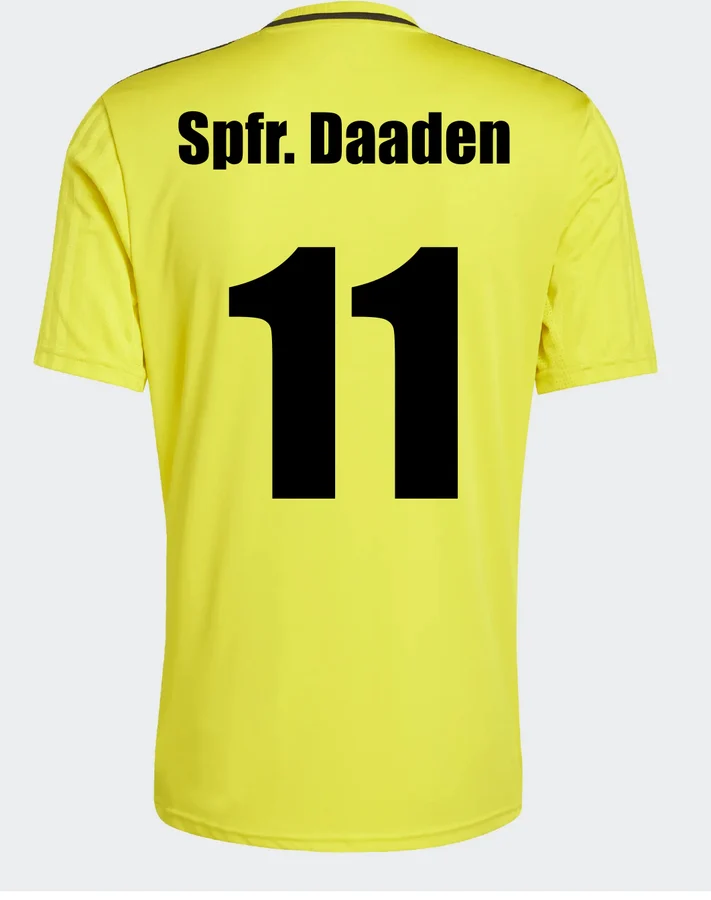
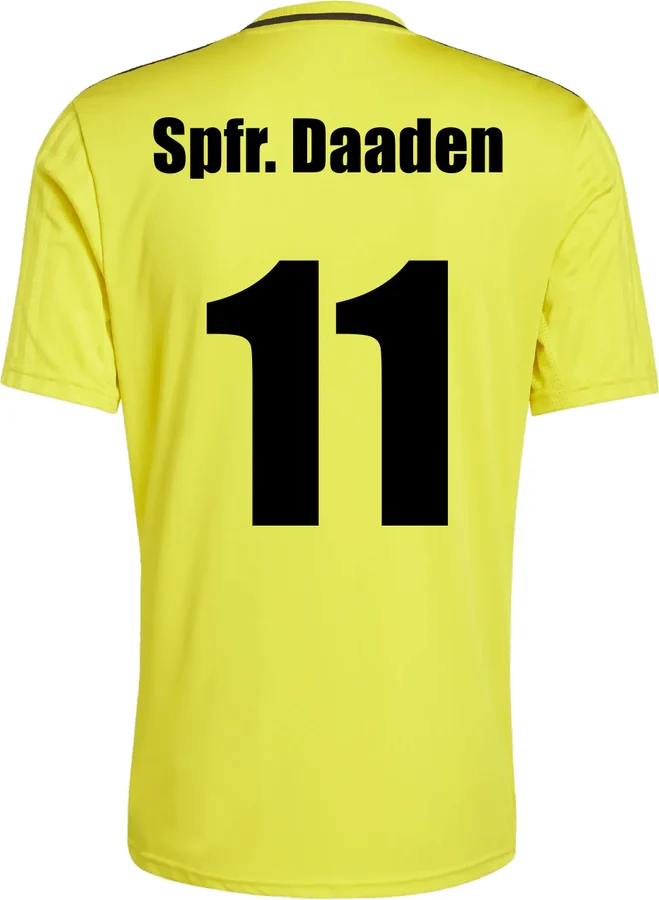
feat(PROJ-13): Marken JAKO, erima und adidas statt Partner-Hinweis, Daaden-Trikot in der Galerie, FAQ mit Mindestmenge und Lieferzeit
Claude-Session: https://claude.ai/code/session_01J1D6pFsGkfumoVFQd1CdUS

diff --git a/src/app/(site)/teamwear/page.tsx b/src/app/(site)/teamwear/page.tsx
@@ -15,7 +15,7 @@ import { AUDIENCES, CLUBS, FAQ, KITS, METHODS, STEPS, TEAMWEAR } from "@/content
 export const metadata: Metadata = {
   title: "Teamwear – Textildruck für Vereine & Firmen",
   description:
-    "AUSDAUER TEAMWEAR: Trikots, Trainingskleidung und Firmenkleidung von JAKO, bedruckt in Betzdorf mit Flex und DTF. Offizieller JAKO Teamwear Partner.",
+    "AUSDAUER TEAMWEAR: Trikots, Trainingskleidung und Firmenkleidung von JAKO, erima und adidas – bedruckt in Betzdorf mit Flex und DTF, ohne Mindestmenge.",
 };
 
 export default function TeamwearPage() {
@@ -28,14 +28,14 @@ export default function TeamwearPage() {
             Euer Trikot. <span className="italic text-brand">Unser Druck.</span>
           </>
         }
-        intro="Wir statten Vereine und Firmen mit JAKO aus und bedrucken alles selbst in unserer Werkstatt in Betzdorf – Wappen, Sponsoren, Namen und Nummern."
+        intro="Wir statten Vereine und Firmen mit JAKO, erima und adidas aus und bedrucken alles selbst in unserer Werkstatt in Betzdorf – Wappen, Sponsoren, Namen und Nummern."
       >
         <div className="flex flex-wrap items-center gap-4">
           <Button asChild variant="brand" size="lg">
             <a href={COMPANY.phoneHref}>Anfrage: {COMPANY.phone}</a>
           </Button>
           <Badge variant="outline" className="border-paper/30 font-mono text-xs uppercase tracking-[0.15em] text-paper">
-            {TEAMWEAR.partner}
+            Ohne Mindestmenge · ca. 4 Wochen
           </Badge>
         </div>
       </PageHero>
@@ -65,7 +65,7 @@ export default function TeamwearPage() {
         title="Echte Druckfreigaben."
         intro="So sieht eine Druckfreigabe bei uns aus. Tipp auf ein Trikot, um es umzudrehen."
       >
-        <div className="grid gap-10 md:grid-cols-2">
+        <div className="grid gap-10 md:grid-cols-2 lg:grid-cols-3">
           {KITS.map((k) => (
             <KitViewer key={k.club} kit={k} />
           ))}
@@ -107,22 +107,23 @@ export default function TeamwearPage() {
         </ul>
       </SiteSection>
 
-      <SiteSection km={5} kicker="Ausrüster" title="Offizieller JAKO Teamwear Partner." tone="ink">
-        <div className="grid gap-8 lg:grid-cols-[1fr_1.2fr] lg:items-center">
-          <div className="flex min-h-40 items-center justify-center rounded-sm bg-white p-10" data-slot="jako-logo">
-            {/* JAKO logo: original file only, after approval by JAKO marketing (CI 2026). Until then the name as text. */}
-            <p className="font-display text-4xl font-black uppercase text-ink">JAKO</p>
-          </div>
-          <div>
-            <p className="max-w-xl text-lg text-paper/85">
-              Als offizieller Partner bekommt ihr bei uns das komplette JAKO-Teamsortiment – vom Trikot bis zur Regenjacke, für Firmen auch die
-              JAKO Corporate Teamwear. Muster und Größen könnt ihr im Store in Betzdorf anprobieren.
-            </p>
-          </div>
+      <SiteSection km={5} kicker="Marken" title="Die führenden Teamwear-Marken." tone="ink">
+        <div className="grid gap-8 lg:grid-cols-[1.2fr_1fr] lg:items-center">
+          <ul className="grid grid-cols-3 gap-3">
+            {TEAMWEAR.brands.map((b) => (
+              <li key={b} className="flex min-h-28 items-center justify-center rounded-sm border border-paper/20 px-4">
+                <span className="font-display text-3xl font-black uppercase italic sm:text-4xl">{b}</span>
+              </li>
+            ))}
+          </ul>
+          <p className="max-w-xl text-lg text-paper/85">
+            JAKO, erima und adidas liefern wir dir direkt – vom Trikotsatz bis zur Regenjacke. Muster und Größen kannst du im Store in Betzdorf
+            anprobieren. Bedruckt wird alles bei uns.
+          </p>
         </div>
       </SiteSection>
 
-      <SiteSection km={6} kicker="Ablauf" title="In fünf Schritten zum Trikot." tone="white">
+      <SiteSection km={6} kicker="Ablauf" title="In fünf Schritten zum Trikot." intro="Von der Anfrage bis zur Übergabe dauert es etwa vier Wochen, je nach Auftragslage." tone="white">
         <ol className="grid gap-6 md:grid-cols-5">
           {STEPS.map((s, i) => (
             <li key={s.title} className="border-t-4 border-brand pt-4">

diff --git a/src/content/teamwear.ts b/src/content/teamwear.ts
@@ -3,7 +3,8 @@
 export const TEAMWEAR = {
   name: "AUSDAUER TEAMWEAR",
   claim: "Bedruckt in Betzdorf",
-  partner: "Offizieller JAKO Teamwear Partner",
+  /** Leading teamwear brands we supply – named as text only, no brand logos. */
+  brands: ["JAKO", "erima", "adidas"],
   /** Order shop for clubs is still in beta – not linked yet. */
   clubShopLive: false,
 } as const;
@@ -17,13 +18,13 @@ export interface Audience {
 export const AUDIENCES: Audience[] = [
   {
     title: "Für Vereine",
-    text: "Vom Trikotsatz der Ersten bis zur Trainingsjacke der Bambini: Wir statten euren Verein mit JAKO aus und bedrucken alles bei uns in Betzdorf.",
+    text: "Vom Trikotsatz der Ersten bis zur Trainingsjacke der Bambini: Wir statten euren Verein mit JAKO, erima oder adidas aus und bedrucken alles bei uns in Betzdorf.",
     points: ["Trikots, Hosen, Stutzen, Trainingsanzüge", "Wappen, Sponsor, Namen und Nummern", "Nachbestellungen für neue Spieler:innen"],
   },
   {
     title: "Für Firmen",
     text: "Einheitliche Kleidung fürs Team, den Firmenlauf oder den Messestand: Shirts, Polos, Softshells und Hoodies mit eurem Logo.",
-    points: ["JAKO Corporate Teamwear", "Logo auf Brust, Rücken oder Ärmel", "Kleine und große Stückzahlen"],
+    points: ["Shirts, Polos, Softshells, Hoodies", "Logo auf Brust, Rücken oder Ärmel", "Ab einem Stück – ohne Mindestmenge"],
   },
 ];
 
@@ -54,7 +55,7 @@ export interface Club {
   crest: string;
 }
 
-/** References – crests used with the clubs' permission. */
+/** References – crests and kits shown with the clubs' permission (2026-10-16). */
 export const CLUBS: Club[] = [
   { name: "SG 06 Betzdorf", crest: "/images/vereine/sg-06-betzdorf.png" },
   { name: "TuS Weitefeld", crest: "/images/vereine/tus-weitefeld.png" },
@@ -88,11 +89,18 @@ export const KITS: Kit[] = [
     back: "/images/teamwear/tus-weitefeld-hinten.webp",
     prints: ["Wappen ca. 80 mm", "Sponsor ca. 250 mm", "Nummer ca. 240 mm"],
   },
+  {
+    club: "Sportfreunde Daaden",
+    title: "Spielertrikot",
+    front: "/images/teamwear/sportfreunde-daaden-vorne.webp",
+    back: "/images/teamwear/sportfreunde-daaden-hinten.webp",
+    prints: ["Wappen ca. 85 mm", "Sponsor ca. 250 mm", "Schriftzug ca. 275 mm", "Nummer ca. 240 mm"],
+  },
 ];
 
 export const STEPS = [
   { title: "Anfrage", text: "Ruf an, schreib uns oder komm in Betzdorf vorbei. Sag uns, was ihr braucht und wie viele." },
-  { title: "Muster & Größen", text: "Wir zeigen dir die passenden JAKO-Modelle. Größen könnt ihr bei uns anprobieren." },
+  { title: "Muster & Größen", text: "Wir zeigen dir die passenden Modelle von JAKO, erima und adidas. Größen könnt ihr bei uns anprobieren." },
   { title: "Druckfreigabe", text: "Du bekommst eine Ansicht von vorn und hinten mit allen Maßen – so wie auf dieser Seite." },
   { title: "Druck", text: "Nach deiner Freigabe drucken wir in unserer Werkstatt in Betzdorf." },
   { title: "Übergabe", text: "Abholung im Store oder Lieferung an den Verein." },
@@ -101,11 +109,11 @@ export const STEPS = [
 export const FAQ = [
   {
     q: "Gibt es eine Mindestmenge?",
-    a: "Sprich uns an – wir drucken für ganze Vereine genauso wie für ein einzelnes Team. Den Preis bekommst du mit dem Angebot.",
+    a: "Nein. Wir drucken für ganze Vereine genauso wie ein einzelnes Trikot für den Neuzugang.",
   },
   {
     q: "Wie lange dauert es?",
-    a: "Das hängt von der Verfügbarkeit bei JAKO und vom Umfang ab. Den Termin nennen wir dir mit dem Angebot.",
+    a: "Rechne mit etwa vier Wochen, je nach Auftragslage. Den genauen Termin nennen wir dir mit dem Angebot.",
   },
   {
     q: "Welche Druckdaten braucht ihr?",

diff --git a/src/app/brand/teamwear/page.tsx b/src/app/brand/teamwear/page.tsx
@@ -62,7 +62,7 @@ export default function TeamwearBrandPage() {
           <p className="mt-12 font-mono text-xs uppercase tracking-[0.25em] text-brand">Logo-Entwurf · Textildruck für Vereine & Firmen</p>
           <img src={teamwearLogo("", "negativ")} alt="AUSDAUER TEAMWEAR – Bedruckt in Betzdorf" className="mt-8 h-auto w-full max-w-2xl" />
           <p className="mt-10 max-w-2xl text-lg text-muted-foreground sm:text-xl">
-            Flex und DTF für Vereine und Firmen, ausgestattet über JAKO. Das lange AUSDAUER-Logo ist auf dem Ärmel zu flach. Deshalb
+            Flex und DTF für Vereine und Firmen, auf Teamwear von JAKO, erima und adidas. Das lange AUSDAUER-Logo ist auf dem Ärmel zu flach. Deshalb
             sitzt dort ab jetzt die rote ∞-Plakette, kompakt, auch mit 25 mm noch erkennbar.
           </p>
         </div>
@@ -127,7 +127,7 @@ export default function TeamwearBrandPage() {
             ))}
           </div>
           <p className="mt-8 max-w-3xl text-muted-foreground">
-            Claim „Bedruckt in Betzdorf“: Die Kleidung kommt von JAKO, veredelt wird bei uns. Genau das sagt der Claim. „Made in Betzdorf“
+            Claim „Bedruckt in Betzdorf“: Die Kleidung kommt von JAKO, erima oder adidas, veredelt wird bei uns. Genau das sagt der Claim. „Made in Betzdorf“
             würde behaupten, die Ware sei in Betzdorf hergestellt.
           </p>
         </Section>
@@ -189,13 +189,13 @@ export default function TeamwearBrandPage() {
           </div>
           <div className="mt-12 grid gap-8 lg:grid-cols-2">
             <ul className="space-y-3">
-              <Rule kind="do">Rangfolge auf dem Trikot: Vereinswappen und Sponsor vorn, JAKO laut Ausrüster-Vorgabe, AUSDAUER am linken Ärmel oder im Nacken.</Rule>
+              <Rule kind="do">Rangfolge auf dem Trikot: Vereinswappen und Sponsor vorn, Herstellerlogo wie geliefert, AUSDAUER am linken Ärmel oder im Nacken.</Rule>
               <Rule kind="do">Ärmel: Plakette 3–4 cm unter der Schulternaht, mittig auf der Ärmelachse. Nacken: 2 cm unter dem Kragen.</Rule>
               <Rule kind="do">Auf Vereinsfarben 1-farbig in Weiß oder Schwarz, je nachdem, was mehr Kontrast hat. Rot nur auf Weiß, Grau oder Schwarz.</Rule>
             </ul>
             <ul className="space-y-3">
               <Rule kind="dont">Das Original-Logo unter 60 mm Breite, auseinandergenommen oder ohne ∞ vor dem Schriftzug.</Rule>
-              <Rule kind="dont">Vereinswappen, JAKO- oder Sponsorlogos umfärben oder mit der Plakette verbinden.</Rule>
+              <Rule kind="dont">Vereinswappen, Hersteller- oder Sponsorlogos umfärben oder mit der Plakette verbinden.</Rule>
               <Rule kind="dont">Rote Plakette auf rotem Trikot. Claim oder Innendruck außen auf dem Vereinstrikot. „TEAMWEAR“ nur im Ärmel-Badge, nie als lose Zeile.</Rule>
             </ul>
           </div>

diff --git a/src/app/brand/_sections/architecture.tsx b/src/app/brand/_sections/architecture.tsx
@@ -64,7 +64,7 @@ export function Architecture() {
             {/* eslint-disable-next-line @next/next/no-img-element -- static vector logo */}
             <img src="/brand/teamwear/ausdauer-teamwear-farbig.svg" alt="AUSDAUER TEAMWEAR" className="h-12 w-auto max-w-full" />
             <p className="mt-3 text-sm text-muted-foreground">
-              Flex & DTF, Ausstattung über JAKO. <a href="/brand/teamwear" className="underline underline-offset-4">Logo & Textil-Marken →</a>
+              Flex & DTF auf JAKO, erima und adidas. <a href="/brand/teamwear" className="underline underline-offset-4">Logo & Textil-Marken →</a>
             </p>
           </Node>
           <div className="flex items-center gap-3 rounded-sm bg-ink p-5 text-paper">

diff --git a/features/PROJ-13-teamwear-web.md b/features/PROJ-13-teamwear-web.md
@@ -24,7 +24,7 @@ Aufbau:
 - Hero mit Trikot-Mockup und Ärmel-Plakette
 - Für Vereine / Für Firmen
 - Flex und DTF im Vergleich
-- JAKO als Ausrüster
+- Marken JAKO, erima und adidas (als Text)
 - Referenzwappen
 - Ablauf: Anfrage → Muster/Größenprobe → Freigabe → Druck → Übergabe
 - FAQ
@@ -40,7 +40,8 @@ Inhalte kommen aus `src/content/teamwear.ts`. Der Menüpunkt „Teamwear“ komm
 - [x] Referenzwappen sichtbar, mit Alt-Text (5 Vereine).
 - [x] Menü enthält „Teamwear“.
 - [x] Trikot-Galerie aus Druckfreigaben, Vorder-/Rückseite per Tippen drehbar (CSS 3D, `prefers-reduced-motion` beachtet).
-- [ ] JAKO-Logo (Originaldatei, Freigabe durch JAKO-Marketing).
+- [x] Marken JAKO, erima, adidas als Text, kein Partner-Hinweis, keine Herstellerlogos.
+- [x] FAQ: keine Mindestmenge, Lieferzeit ca. 4 Wochen je nach Auftragslage.
 
 ## Implementation Notes (2026-10-16, Teil Events)
 - Entfernt:
@@ -53,13 +54,13 @@ Inhalte kommen aus `src/content/teamwear.ts`. Der Menüpunkt „Teamwear“ komm
 - E2E-Test „events point to the community app“ ergänzt.
 
 ## Offene Fragen
-- [x] JAKO: offizieller JAKO Teamwear Partner, Logo darf gezeigt werden. Originaldatei bzw. Partner-Badge liefert der Kunde.
-- [ ] Mindestmengen, Lieferzeiten.
+- [x] Kein „JAKO Teamwear Partner“-Hinweis. Stattdessen werden JAKO, erima und adidas als führende Marken genannt (Kunde, 2026-10-16).
+- [x] Mindestmengen: keine. Lieferzeit: ca. 4 Wochen.
 - [ ] Statt Fotos: Mockups aus Druckfreigaben (Upload durch den Kunden) als drehbare Trikot-Ansicht. Ansatz siehe Chat 2026-10-16.
 - [x] Wolf-Wappen = TuS Weitefeld. JSG Weitefeld-Neunkhausen ist ein eigener Verein (2026-10-16).
 - [x] Wappen Sportfreunde Daaden geliefert.
-- [ ] Daaden-Trikot (adidas) in der Galerie zeigen? Konflikt mit der JAKO-Partnerschaft möglich, deshalb vorerst nicht gezeigt.
-- [ ] Okay von Vereinen und Sponsoren (adesso, Schleyer) für die Galerie.
+- [x] Daaden-Trikot (adidas) wird in der Galerie gezeigt.
+- [x] Vereine sind mit Wappen und Trikots auf der Seite einverstanden (2026-10-16).
 
 ## Implementation Notes (2026-10-16, Teil Teamwear)
 - Inhalte in `src/content/teamwear.ts`: Zielgruppen, Verfahren, Vereine, Trikots, Ablauf, FAQ. Die FAQ-Texte bitte prüfen, Mindestmengen und Lieferzeiten sind bewusst offen formuliert.
@@ -68,9 +69,5 @@ Inhalte kommen aus `src/content/teamwear.ts`. Der Menüpunkt „Teamwear“ komm
   - aus den Druckfreigaben-PDFs zugeschnitten nach `public/images/teamwear/*.webp`
   - Spielername auf der SG-06-Rückseite entfernt
 - Vereinswappen in `public/images/vereine/` (5 Stück).
-- JAKO:
-  - CI 2026 beachtet: nur Originallogo, keine Umfärbung, mind. 2 cm, Schutzraum.
-  - Werbemittel mit JAKO-Logo nur nach Freigabe durch das JAKO-Marketing.
-  - „JAKO Corporate Teamwear“-Logo nur im Firmen-Kontext.
-  - Bis dahin steht JAKO nur als Text im Logo-Feld.
+- Marken: JAKO, erima und adidas nur als Text, da keine Herstellerlogos freigegeben sind. Den JAKO-CI-Guide 2026 beachten, falls doch Logos kommen: Originaldatei, keine Umfärbung, mind. 2 cm, Freigabe durch das JAKO-Marketing.
 - Menü (`MAIN_NAV`), Sitemap und E2E-Test „teamwear page shows the club crests and turns a jersey“ ergänzt.

diff --git a/features/PROJ-12-teamwear-brand.md b/features/PROJ-12-teamwear-brand.md
@@ -4,7 +4,7 @@
 
 ## Ausgangslage
 - AUSDAUER betreibt eine kleine Textildruckerei für Firmen und Sportvereine (Flextransfer, DTF).
-- Die Ausstattung läuft über JAKO. Referenzen: SG 06 Betzdorf, TuS Weitefeld, JSG Weitefeld-Neunkhausen, Sportfreunde Daaden, VfB Niederdreisbach.
+- Geliefert werden die führenden Teamwear-Marken JAKO, erima und adidas. Referenzen: SG 06 Betzdorf, TuS Weitefeld, JSG Weitefeld-Neunkhausen, Sportfreunde Daaden, VfB Niederdreisbach.
 - Vereine bestellen über einen eigenen Bestellshop (Beta).
 - Arbeitstitel war „Ausdauer Custom Teamwear“.
 - Problem: Das lange, flache AUSDAUER-Logo (ca. 7 : 1) ist auf dem Ärmel schlecht lesbar.
@@ -12,10 +12,10 @@
 ## Entscheidungen
 - Name: **AUSDAUER TEAMWEAR** (Kunde, 2026-10-16).
 - Untermarke nach dem Bauplan von Run Academy und CUP: rote ∞-Plakette, Name, Claim.
-- Claim: **„Bedruckt in Betzdorf“** (Kunde, 2026-10-16). „Made in Betzdorf“ wurde verworfen: Die Ware kommt von JAKO, in Betzdorf wird veredelt. Eine Herkunftsangabe „Made in“ wäre irreführend.
+- Claim: **„Bedruckt in Betzdorf“** (Kunde, 2026-10-16). „Made in Betzdorf“ wurde verworfen: Die Ware kommt von JAKO, erima oder adidas, in Betzdorf wird veredelt. Eine Herkunftsangabe „Made in“ wäre irreführend.
 - Auf Vereinskleidung ist die Plakette der Absender. Vorschlag des Kunden (2026-10-16): **„TEAMWEAR“ unter der Plakette am Ärmel**, umgesetzt als Ärmel-Badge. Das ist die kompakte Form der Untermarke, nach dem Bauplan von RUN ACADEMY. „TEAMWEAR“ steht nie als lose Zeile.
 - **Das Original-Logo wird nie getrennt** (Kunde, 2026-10-16): Das ∞ bleibt vor dem Schriftzug. Die Variante „Ärmel vertikal“ (Plakette über dem Schriftzug ohne ∞) ist verworfen. Auf dem Ärmel steht die Plakette allein, das komplette Logo kommt dorthin, wo mindestens 60 mm Platz sind.
-- JAKO: offizieller **JAKO Teamwear Partner**. Das Logo darf genannt werden, die Originaldatei kommt vom Kunden.
+- Marken: JAKO, erima und adidas werden als Text genannt, ohne Partner-Hinweis und ohne Herstellerlogos (Kunde, 2026-10-16).
 
 ## Textil-Marken
 | Marke | Mindestbreite | Ideal | Einsatz |

diff --git a/public/brand/teamwear/README.md b/public/brand/teamwear/README.md
@@ -1,6 +1,6 @@
 # AUSDAUER TEAMWEAR – Logo- und Textil-Dateien
 
-Textildruck für Vereine und Firmen (Flex, DTF), Ausstattung über JAKO. Untermarke nach dem Bauplan von Run Academy und AUSDAUER CUP: ∞-Plakette, Name und Claim. Erzeugt mit `npm run brand:subbrands`, PDFs mit `npm run brand:teamwear-pdf`. Alle Schriften sind in Pfade umgewandelt.
+Textildruck für Vereine und Firmen (Flex, DTF) auf Teamwear von JAKO, erima und adidas. Untermarke nach dem Bauplan von Run Academy und AUSDAUER CUP: ∞-Plakette, Name und Claim. Erzeugt mit `npm run brand:subbrands`, PDFs mit `npm run brand:teamwear-pdf`. Alle Schriften sind in Pfade umgewandelt.
 
 ## Untermarke (Print, Web, Hangtag, Fahrzeug)
 | Datei | Einsatz |
